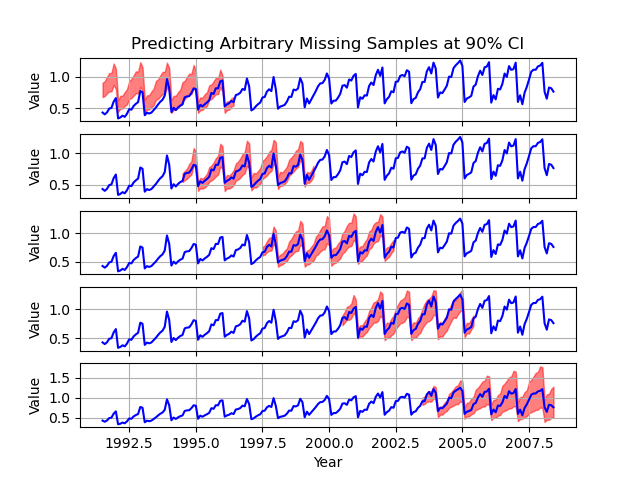
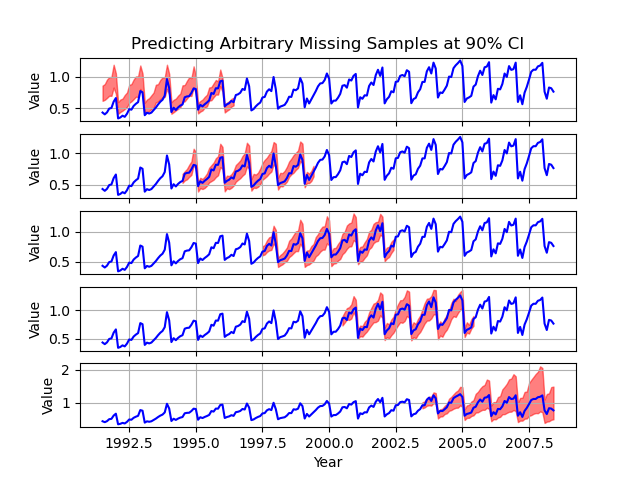
Add Stable distributed innovations.

diff --git a/ARIMA/examples/bayesian.py b/ARIMA/examples/bayesian.py
@@ -15,6 +15,7 @@ from ARIMA import BayesianARIMA
 from ARIMA.examples.utils import load_data, plots_dir, timeit
 from ARIMA.examples import __name__ as __examples__name__
 from torch.distributions.transforms import ExpTransform, AffineTransform
+from ARIMA.Innovations import StableInnovations
 
 def create_model(obs_idx, num_predictions):
     # Create model with non-overlapping observed and predicted sample indices.
@@ -26,7 +27,7 @@ def create_model(obs_idx, num_predictions):
     output_transforms = [AffineTransform(loc=mean_log, scale=std_log), ExpTransform()]
     return BayesianARIMA(3, 0, 1, 0, 1, 2, 12,
                          obs_idx=obs_idx, predict_idx=predict_idx,
-                         output_transforms=output_transforms)
+                         output_transforms=output_transforms, innovations=StableInnovations)
 
 @timeit
 def fit(model, observations,
@@ -42,11 +43,13 @@ def fit(model, observations,
     guide.loc.data[:] = 0
     guide.scale_unconstrained.data[:] = -5
     loss = loss(**loss_params)
+    c = 0
     for lr, num_iter in lr_sequence:
         optimizer = pyro.optim.Adam(dict(lr=lr))
         svi = pyro.infer.SVI(model, guide, optimizer, loss=loss)
         for count in range(num_iter):
-            svi.step(observations)
+            print(c, svi.step(observations))
+            c += 1
     return guide
 
 if __name__ == '__main__' or __examples__name__ == '__main__':
@@ -63,7 +66,7 @@ if __name__ == '__main__' or __examples__name__ == '__main__':
     guide = fit(model, observations[model.obs_idx])
 
     # Make predictions
-    num_samples = 30000
+    num_samples = 1000
     predictive = WeighedPredictive(model.predict,
                                    guide=guide,
                                    num_samples=num_samples,

diff --git a/ARIMA/Innovations.py b/ARIMA/Innovations.py
@@ -1,6 +1,27 @@
 import torch as pt
 from pyro.nn import PyroSample, PyroModule
-from pyro.distributions import Normal, LogNormal, MultivariateNormal, LKJCholesky
+from pyro.distributions import Normal, LogNormal, MultivariateNormal, LKJCholesky, StableWithLogProb, Uniform
+
+
+class StableInnovations(PyroModule):
+    def __init__(self):
+        super().__init__()
+        self.sigma = PyroSample(LogNormal(loc=0, scale=5))
+        self.stability = PyroSample(Uniform(0, 2))
+        self.skew = PyroSample(Uniform(-1, 1))
+
+    def shape(self, num_event_samples):
+        return self.sigma.shape + (num_event_samples,)
+
+    def slice(self, event_samples_idx):
+        return (Ellipsis, event_samples_idx)
+
+    def forward(self, num_samples):
+        return StableWithLogProb(
+                    self.stability[..., None].expand(self.stability.shape + (num_samples,)),
+                    self.skew[..., None].expand(self.skew.shape + (num_samples,)),
+                    self.sigma[..., None].expand(self.sigma.shape + (num_samples,)), 0).to_event(1)
+    
 
 class NormalInnovations(PyroModule):
     def __init__(self, sigma_prior_dist=LogNormal, sigma_prior_dist_params=dict(loc=0, scale=5)):
